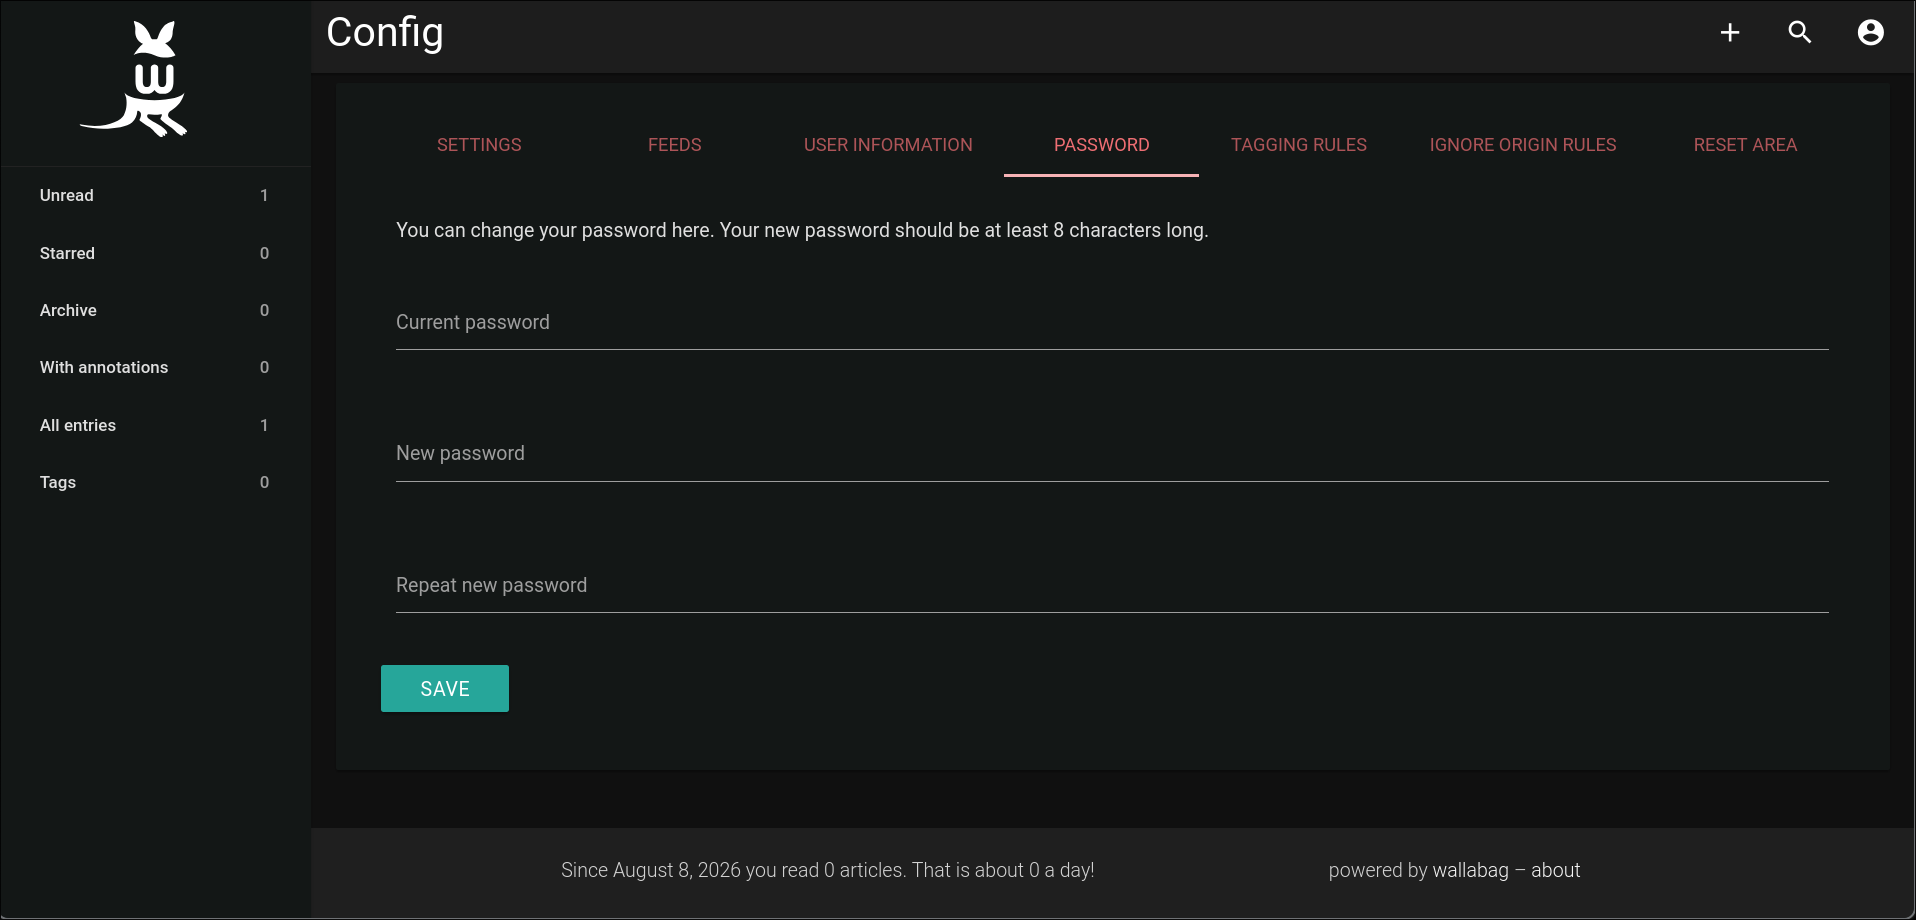
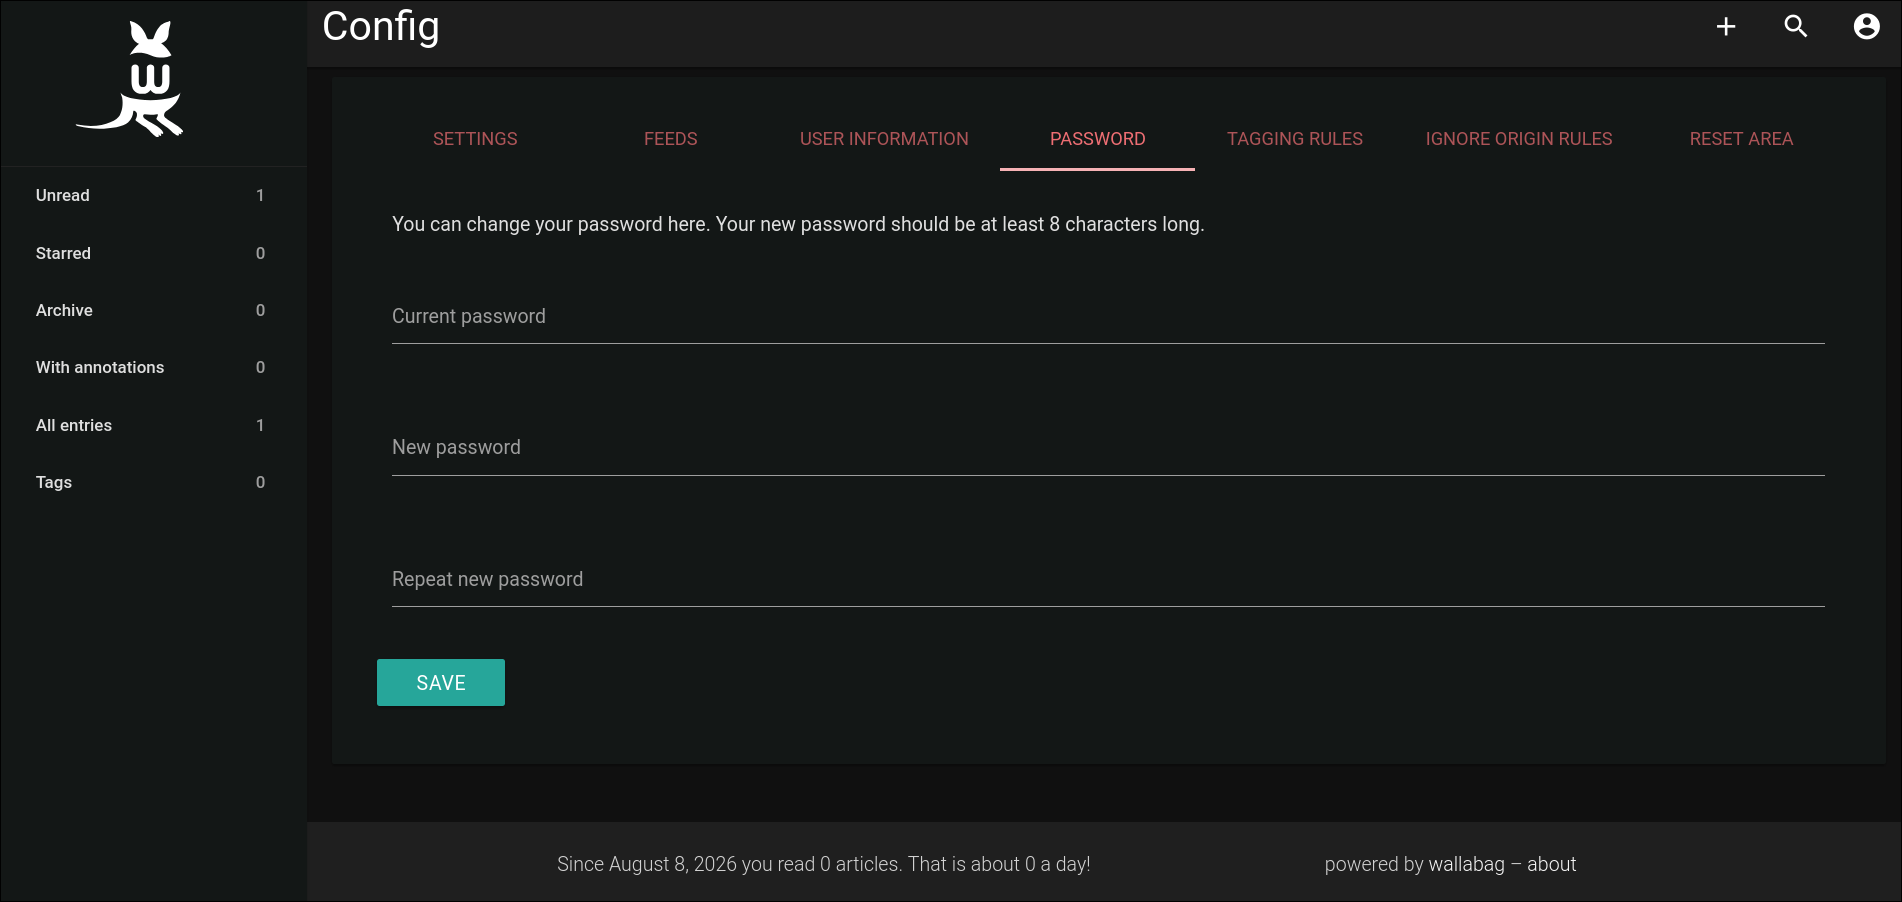
minor changes to readme and took better screenshot

diff --git a/wallabag/README.md b/wallabag/README.md
@@ -1,6 +1,6 @@
 # Wallabag
 
-## Descrition
+## Description
 
 Wallabag is a read-it-later app designed for people who want ownership,
 not another closed inbox.
